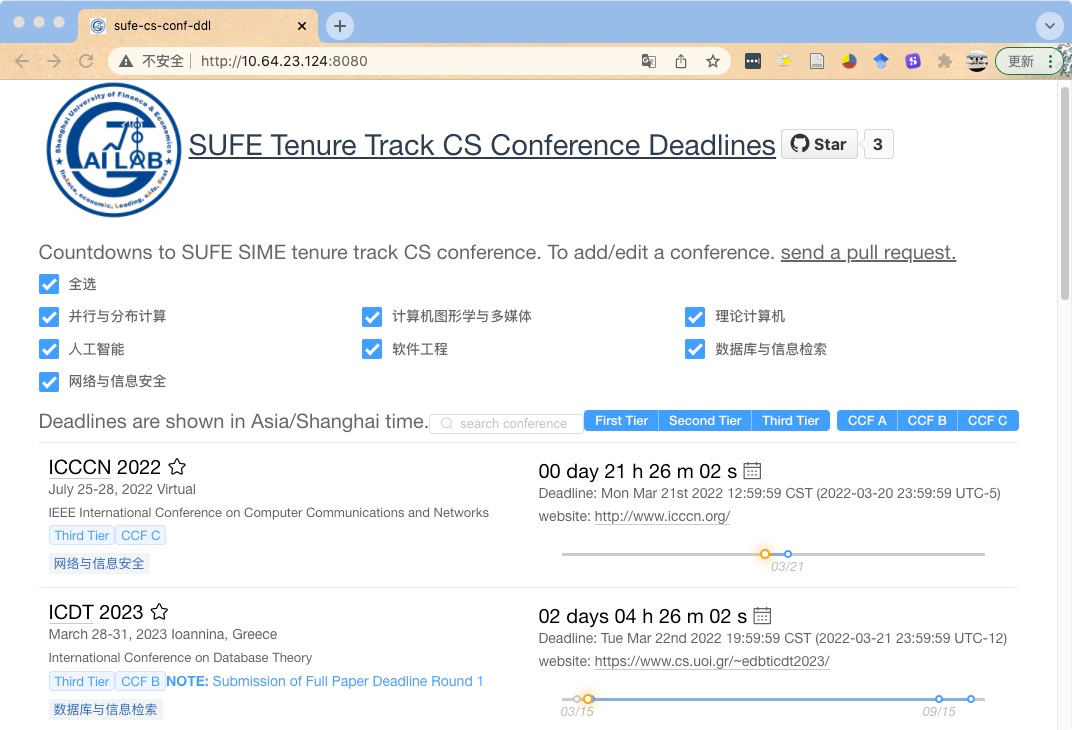
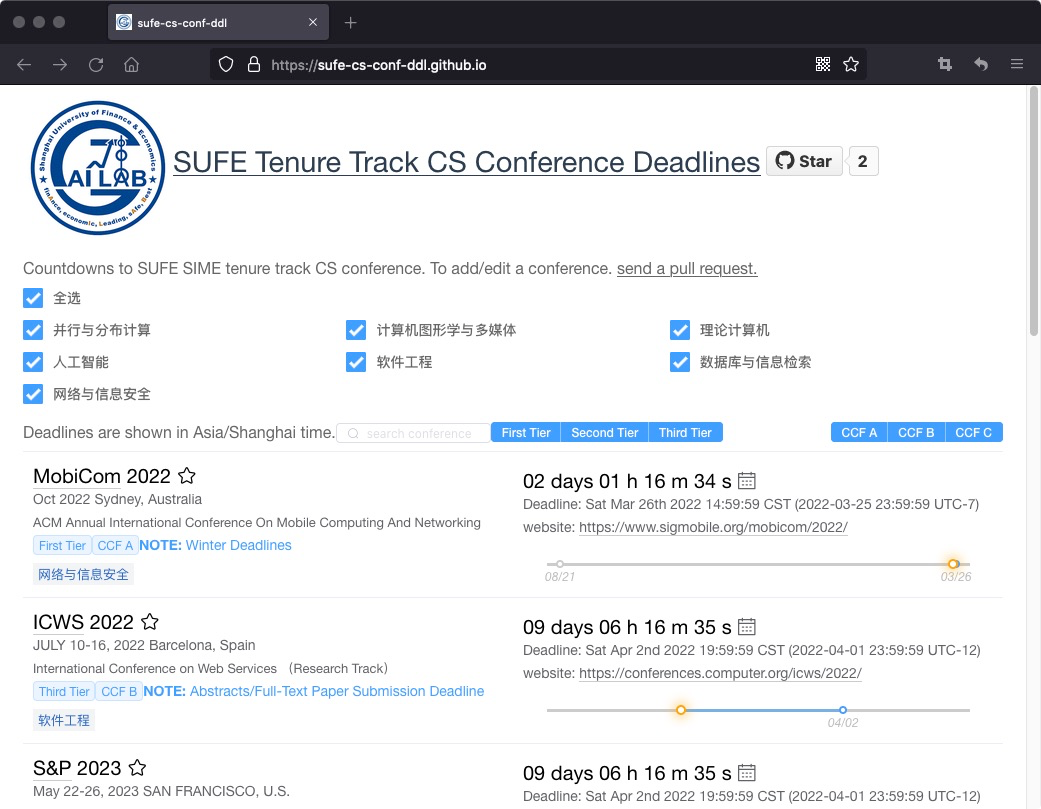
3.24 last build update

diff --git a/src/components/Home.vue b/src/components/Home.vue
@@ -129,7 +129,7 @@ export default {
   },
   data() {
     return {
-      publicPath: '/',
+      publicPath: './',
       checkAll: true,
       isIndeterminate: false,
       pageSize: 10,
